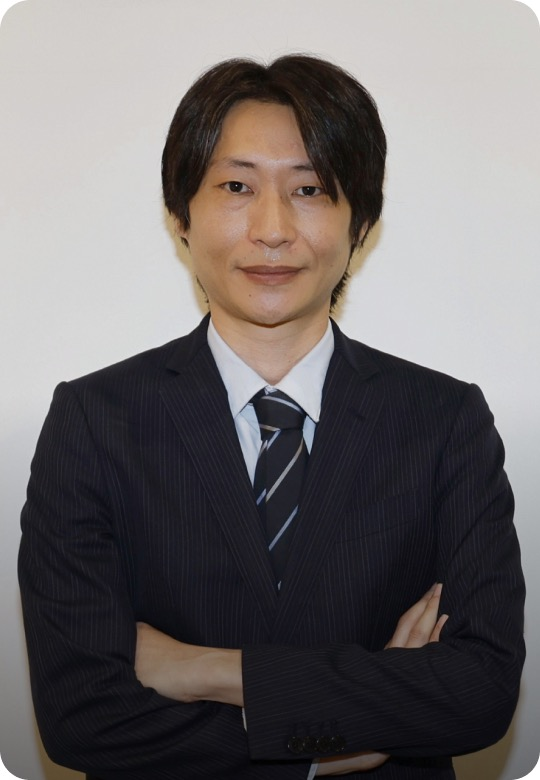
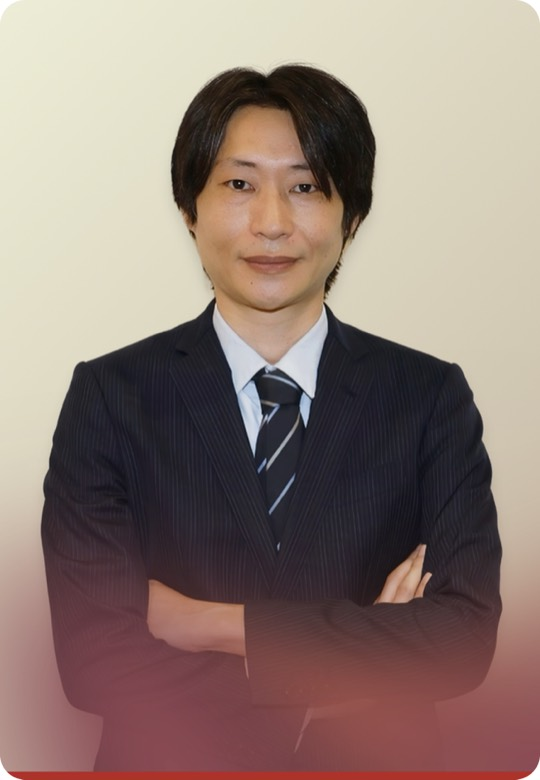
feat: インタビュー3枚・strength-02 SP・集合写真SP・サマリー写真位置
- インタビュー画像3枚を差し替え（藤田=男性/大山=女性/3枚目=女性）
- strength-02 のSP画像をjpgに差し替え（strength-02-sp.jpg）
- 全国へ拡大の集合写真SP(env-main-sp.jpg)を新写真に
- サマリー右側2画像を20px上に(top -20px)

diff --git a/about.html b/about.html
@@ -132,7 +132,7 @@
       <article class="strength-item strength-item--02">
         <figure class="strength-item__img">
           <picture>
-            <source media="(max-width: 767px)" srcset="images/pages/about/strength-02-sp.png">
+            <source media="(max-width: 767px)" srcset="images/pages/about/strength-02-sp.jpg">
             <img src="images/pages/about/strength-02.jpg" alt="ツールは強力な営業力" width="560" height="720">
           </picture>
         </figure>

diff --git a/css/pages/about.css b/css/pages/about.css
@@ -623,7 +623,7 @@
 
 .summary__photos {
   position: absolute;
-  top: 0;
+  top: -20px;
   right: 100px;
   display: flex;
   gap: 10px;
